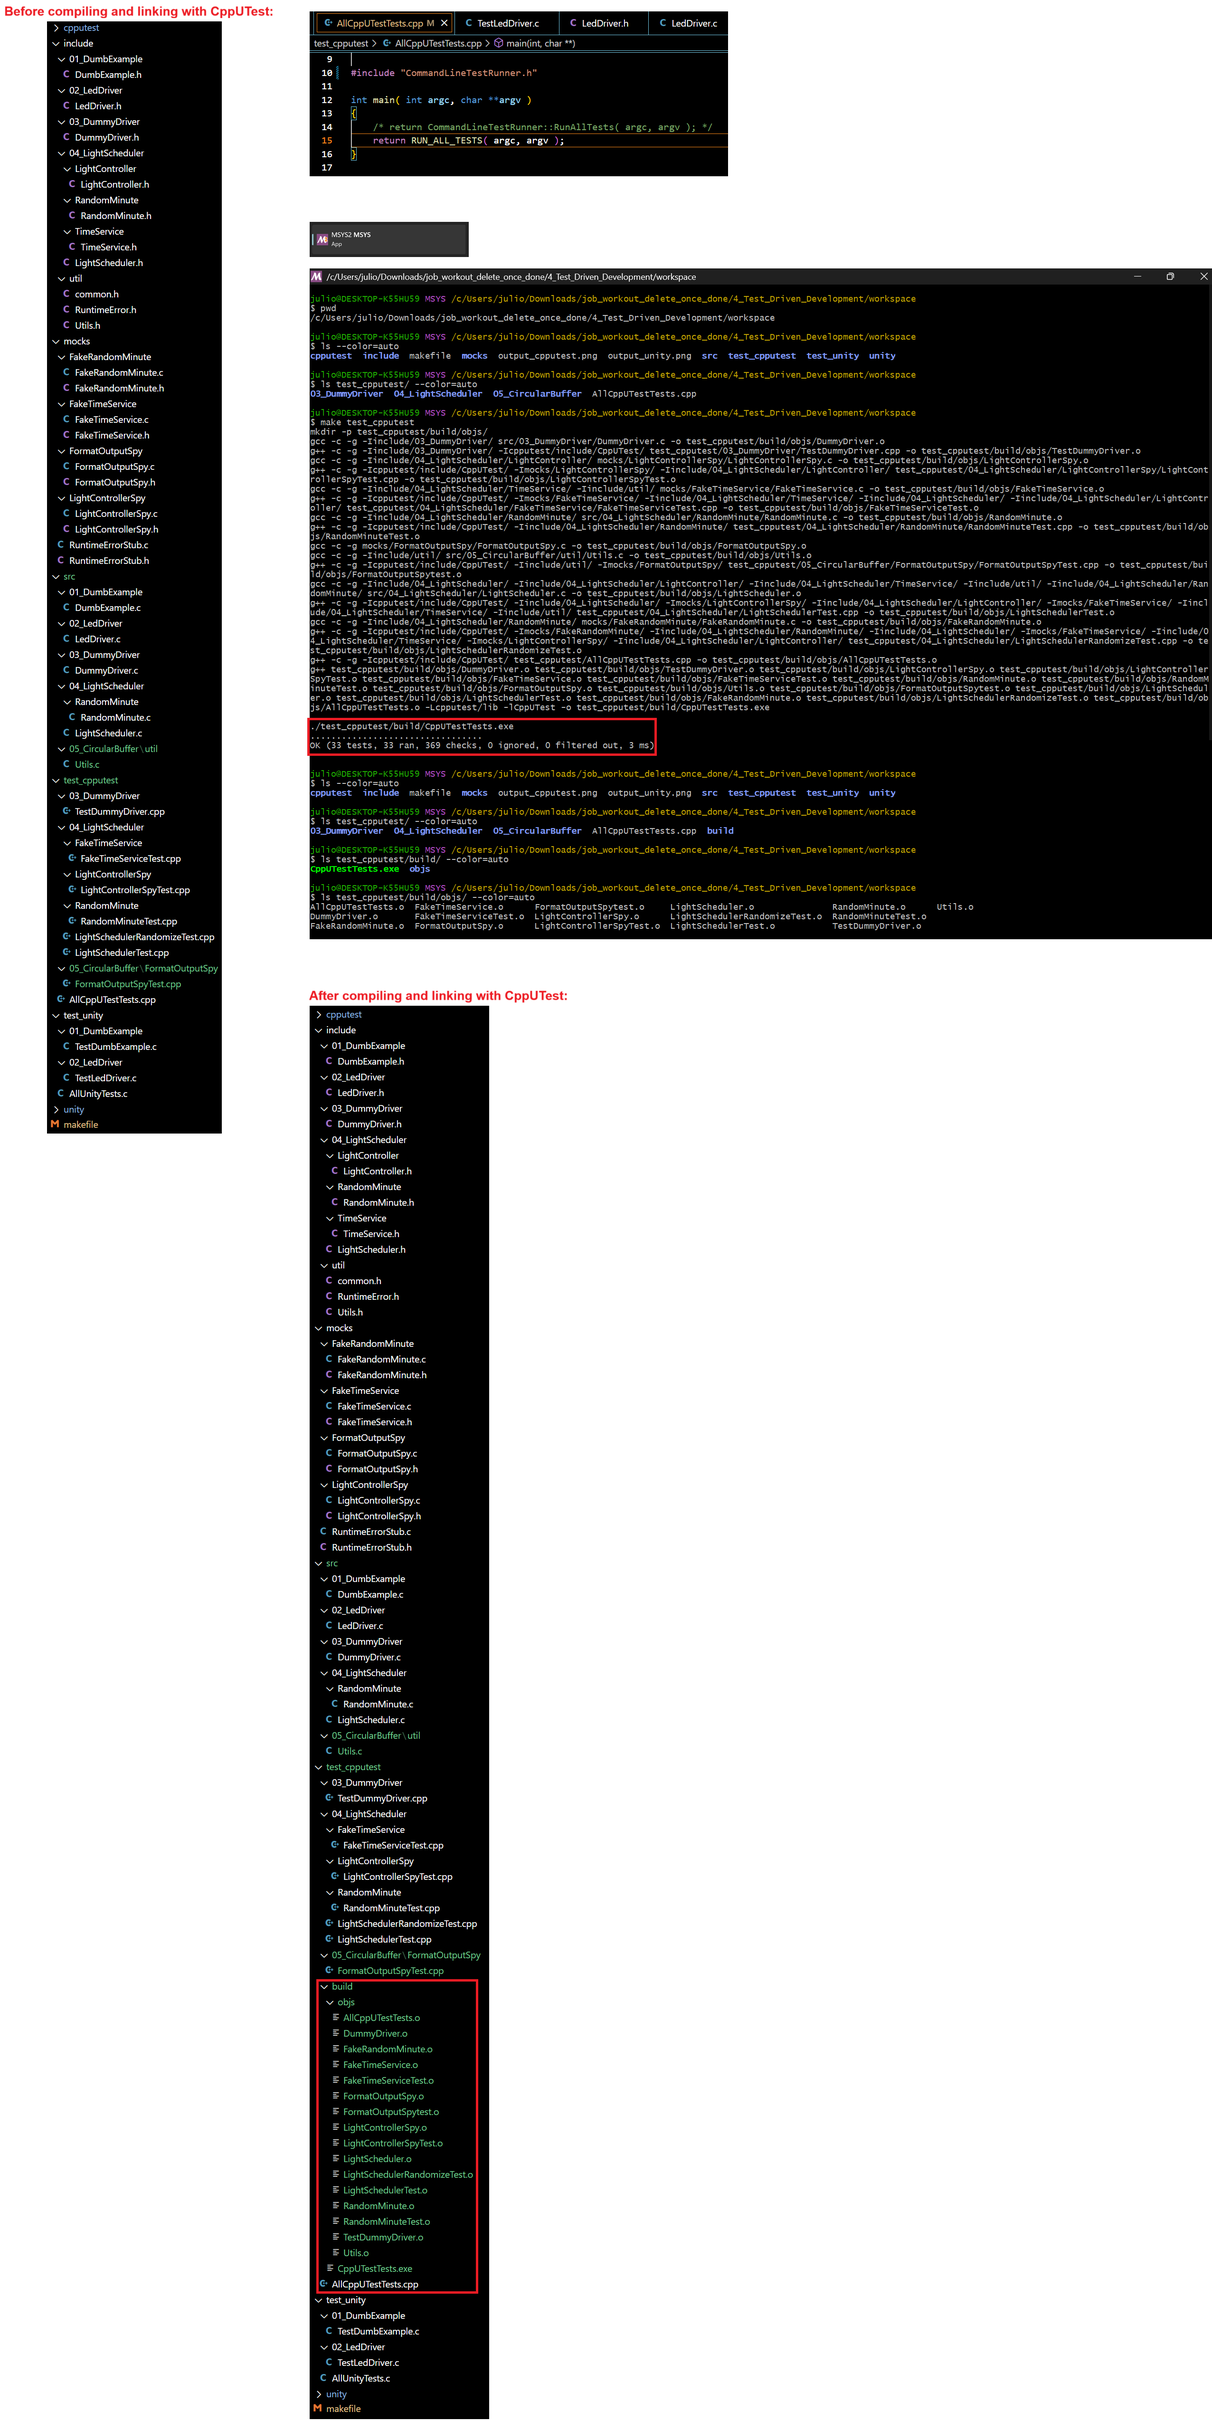
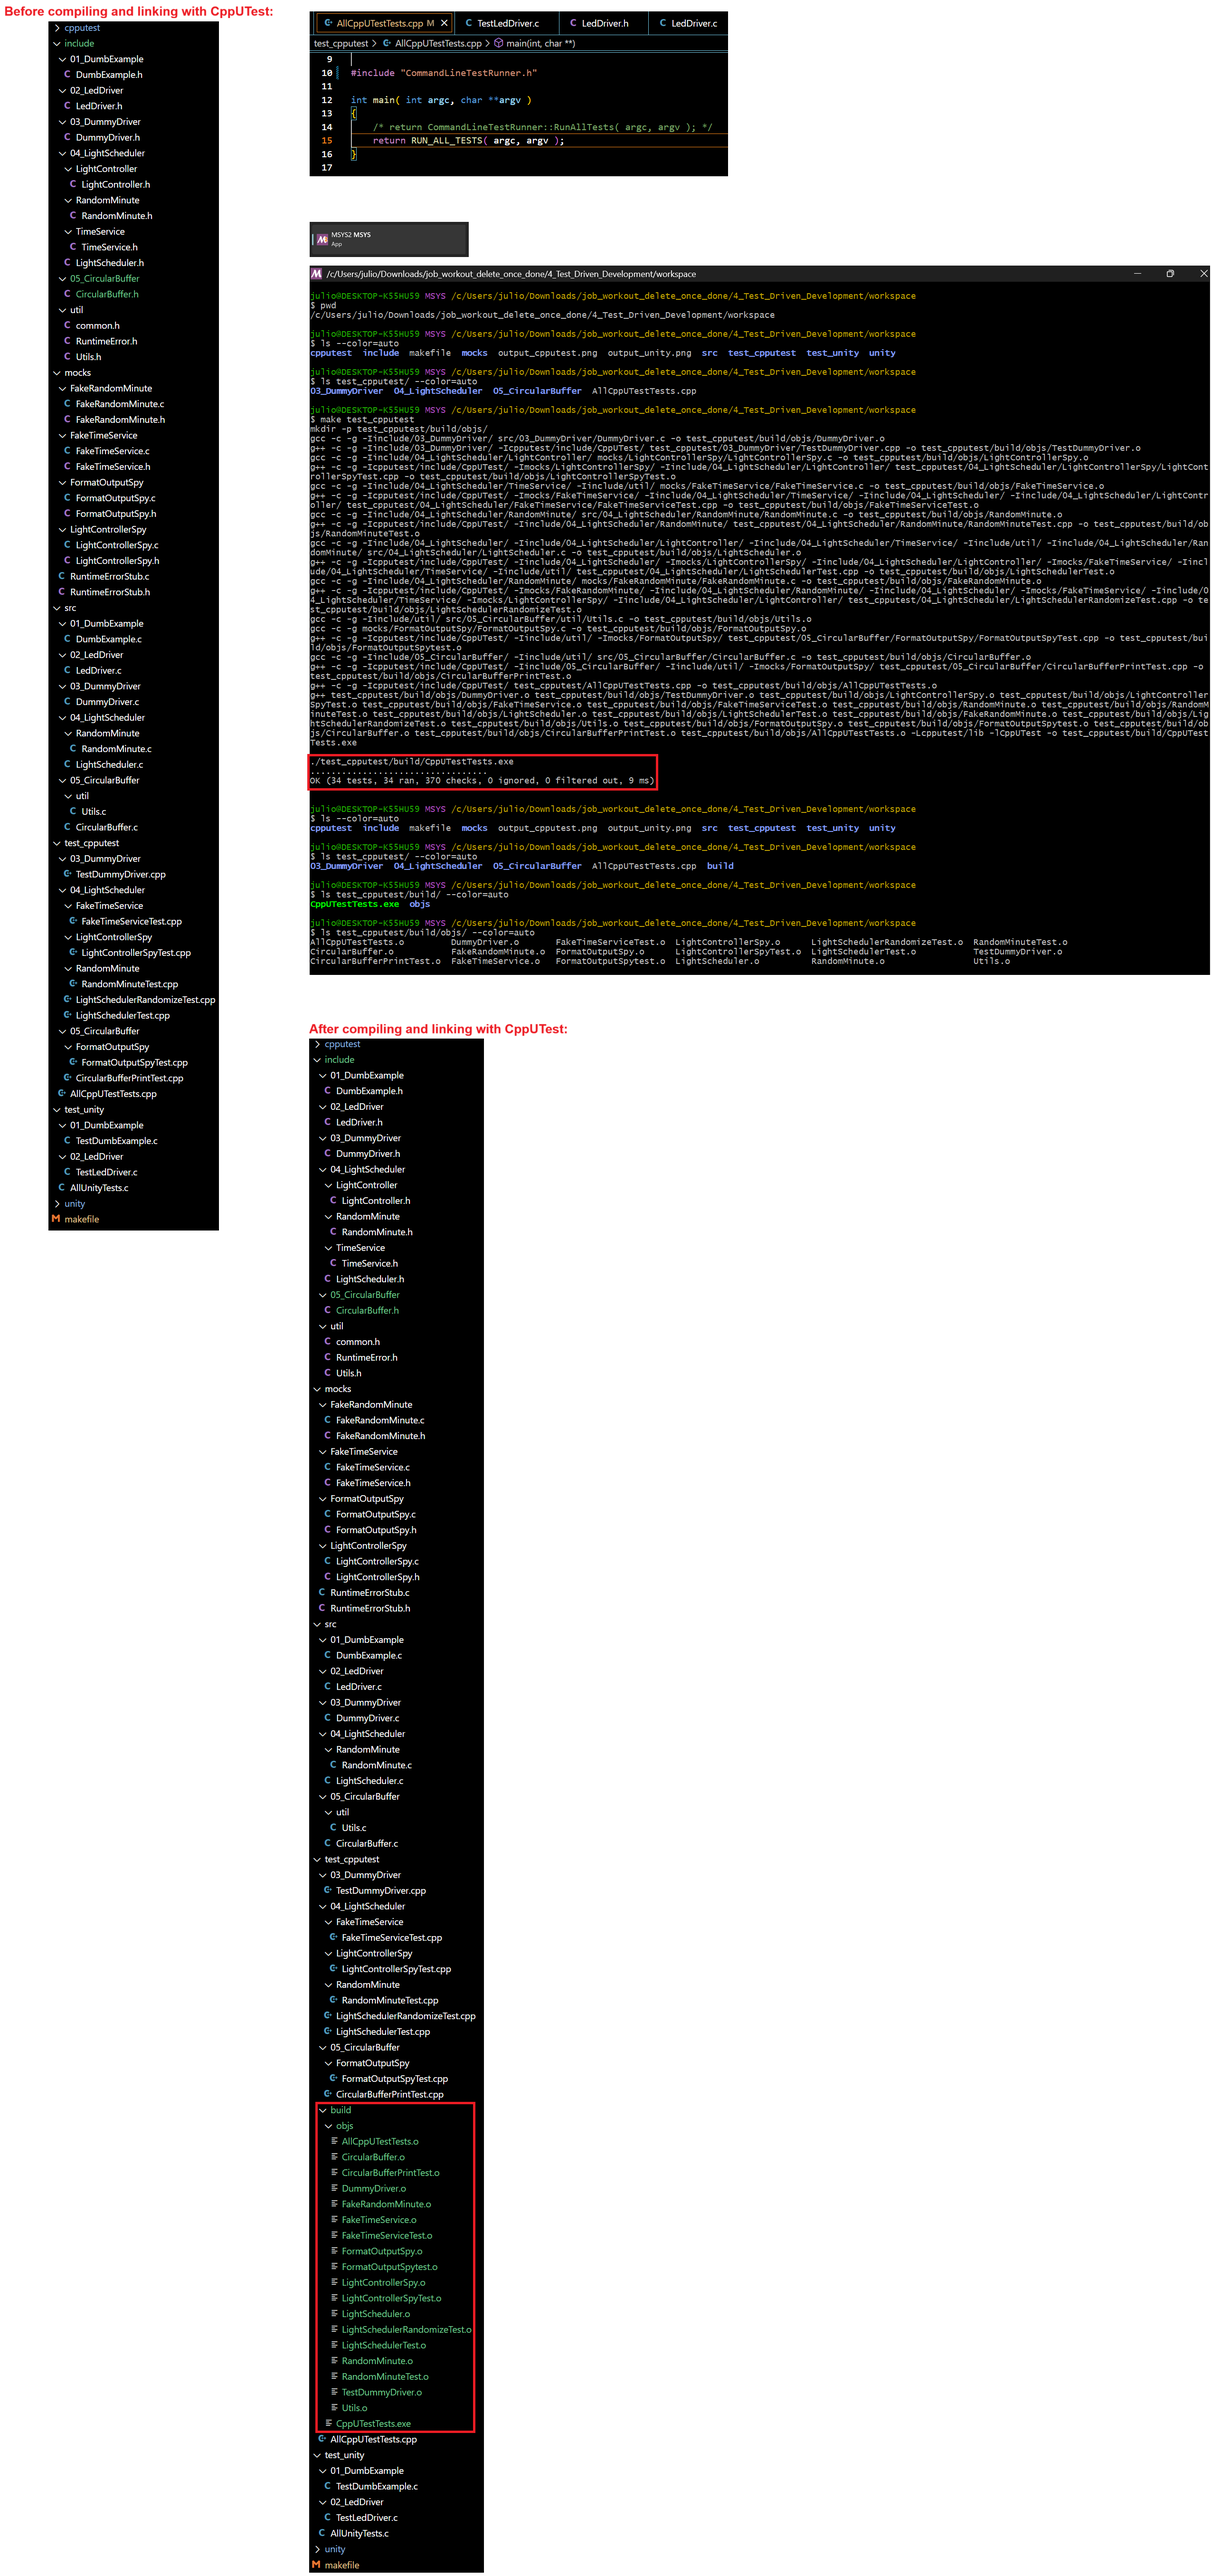
Add CircularBufferPrint PrintEmpty test

diff --git a/test_cpputest/05_CircularBuffer/CircularBufferPrintTest.cpp b/test_cpputest/05_CircularBuffer/CircularBufferPrintTest.cpp
@@ -1,0 +1,84 @@
+/**
+ * @file    CircularBufferPrintTest.cpp
+ * @author  Julio Cesar Bernal Mendez
+ * @brief   Circular Buffer Print test file
+ * 
+ * @version 0.1
+ * @date    2025-04-18
+ */
+
+extern "C"
+{
+    /* includes for things with C linkage */
+    #include "CircularBuffer.h"
+    #include "Utils.h" /* FormatOutput() */
+    #include "FormatOutputSpy.h" /* FormatOutputSpy() */
+}
+  
+/* includes for things with C++ linkage */
+#include "TestHarness.h"
+  
+TEST_GROUP( CircularBufferPrint )
+{
+    /* define data accessible to test group members here */
+
+    CircularBuffer buffer;      /* circular buffer */
+    const char *expectedOutput; /* expected circular buffer output */
+    const char *actualOutput;   /* current circular buffer output */
+
+    void setup()
+    {
+        /* initialization steps are executed before each TEST */
+
+        /* Update FormatOutput (which points to printf() by default) to point to FormatOutputSpy instead,
+           for testing purposes.
+           
+           When a function pointer is set with UT_PTR_SET() during setup() or during any TEST(),
+           it's automatically restored after teardown() completes */
+        UT_PTR_SET( FormatOutput, FormatOutputSpy );
+
+        /* Allocate (dynamically) space to hold a buffer of 100 bytes 
+           (i.e. 100 characters plus one extra character for null termination).
+           This will update the buffer in FormatOutputSpy.c.
+           
+           This string buffer will be used to store the output of the circuler buffer */
+        FormatOutputSpy_Create( 100 );
+
+        /* Allocate (dynamically) space to hold a buffer of 10 integer values */
+        buffer = CircularBuffer_Create( 10 );
+
+        /* Get current string buffer (it should read "") */
+        actualOutput = FormatOutputSpy_GetOutput();
+    }
+
+    void teardown()
+    {
+        /* clean up steps are executed after each TEST */
+
+        /* Deallocate both the string buffer and the circular buffer */
+        FormatOutputSpy_Destroy();
+        CircularBuffer_Destroy( buffer );
+    }
+};
+ 
+TEST( CircularBufferPrint, PrintEmpty )
+{
+    /* At this point both the string buffer and circular buffer are already created and empty */
+
+    /* The expected circular buffer integer values are contained within the '<>' characters (i.e. is empty) */
+    expectedOutput = "Circular buffer content:\n<>\n";
+
+    /* "Print" the contents of the circular buffer.
+    
+       Here CircularBuffer_Print() uses FormatOutput(), but FormatOutput() does not point to the default printf(),
+       instead it points to the FormatOutputSpy(), so the circular buffer output will be redirected to 'buffer' instead
+       like this: "Circular buffer content:\n<>\n".
+       
+       Similarly the circular buffer integer values are contained within the '<>' characters. 
+       The characters "Circular buffer content:\n<" and ">\n" are not part of the circular buffer,
+       they are part of the string buffer created with FormatOutputSpy_Create() */
+    CircularBuffer_Print( buffer );
+
+    /* compare the expected results */
+    STRCMP_EQUAL( expectedOutput, actualOutput );
+}

diff --git a/src/05_CircularBuffer/CircularBuffer.c b/src/05_CircularBuffer/CircularBuffer.c
@@ -1,0 +1,84 @@
+/**
+ * @file    CircularBuffer.c
+ * @author  Julio Cesar Bernal Mendez
+ * @brief   Circular Buffer module source file that implements the functions for the Circular Buffer module.
+ * 
+ * @version 0.1
+ * @date    2025-04-22
+ */
+
+#include "CircularBuffer.h"
+#include <Utils.h>
+#include <stdlib.h>
+
+/* structure data type to hold a circular buffer that stores integer values */
+typedef struct CircularBufferStruct
+{
+    int count;    /* number of elements currently stored in the circular buffer (maximum value is limited by 'capacity') */
+    int index;    /* "pointer" to the next location to store a value in the circular buffer */
+    int outdex;   /* "pointer" to the next location to read a value from the circular buffer */
+    int capacity; /* circular buffer capacity (i.e. number of elements it can store) */
+    int *values;  /* array/elements of the circular buffer */
+} CircularBufferStruct;
+
+enum { BUFFER_GUARD = -999 }; /* circular buffer delimiter */
+
+CircularBuffer CircularBuffer_Create( int capacity )
+{
+    /* Allocate (dynamically) a block of memory to store the circular buffer
+       and initialize it to zero */
+    CircularBuffer self = calloc( capacity, sizeof( CircularBufferStruct ) );
+
+    /* Define circular's buffer capacity */
+    self->capacity = capacity;
+
+    /* Allocate (dynamically) an array of integers to hold the circular buffer's values
+       and initialize all of them to zero */
+    self->values   = calloc( capacity + 1, sizeof( int ) );
+
+    /* delimit the circular buffer */
+    self->values[ capacity ] = BUFFER_GUARD;
+
+    /* return the address of the recently allocated circular buffer */
+    return self;
+}
+
+void CircularBuffer_Destroy( CircularBuffer self )
+{
+    /* Deallocate the circular buffer's array */
+    free( self->values );
+
+    /* Deallocate the circular buffer */
+    free( self );
+}
+
+void CircularBuffer_Print( CircularBuffer self )
+{
+    int i; /* index */
+    int currentValue = self->outdex; /* "pointer" to the next location to read a value from the circular buffer */
+
+    FormatOutput( "Circular buffer content:\n<" );
+
+    /* loop through the circular buffer('s array) */
+    for ( i = 0; i < self->count; i++ )
+    {
+        /* for each value (if any) of the circular buffer */
+        if ( i != 0 )
+        {
+            /* separate values with a comma */
+            FormatOutput( ", " );
+        }
+
+        /* provide format to the current value read from the circular buffer */
+        FormatOutput( "%d", self->values[ currentValue++ ] );
+
+        /* if index is out of the circular buffer's bounds */
+        if ( currentValue >= self->capacity )
+        {
+            /* restart the index */
+            currentValue = 0;
+        }
+    }
+
+    FormatOutput( ">\n" );
+}

diff --git a/include/05_CircularBuffer/CircularBuffer.h b/include/05_CircularBuffer/CircularBuffer.h
@@ -1,0 +1,19 @@
+/**
+ * @file    CircularBuffer.h
+ * @author  Julio Cesar Bernal Mendez
+ * @brief   Circular Buffer module header file containing the prototype functions implemented by CircularBuffer.c
+ * 
+ * @version 0.1
+ * @date    2025-04-22
+ */
+
+#ifndef LIGHTCONTROLLER_H
+#define LIGHTCONTROLLER_H
+
+    typedef struct CircularBufferStruct *CircularBuffer; /* pointer type to a CircularBufferStruct */
+
+    CircularBuffer CircularBuffer_Create( int capacity );
+    void CircularBuffer_Destroy( CircularBuffer self );
+    void CircularBuffer_Print( CircularBuffer self );
+
+#endif
